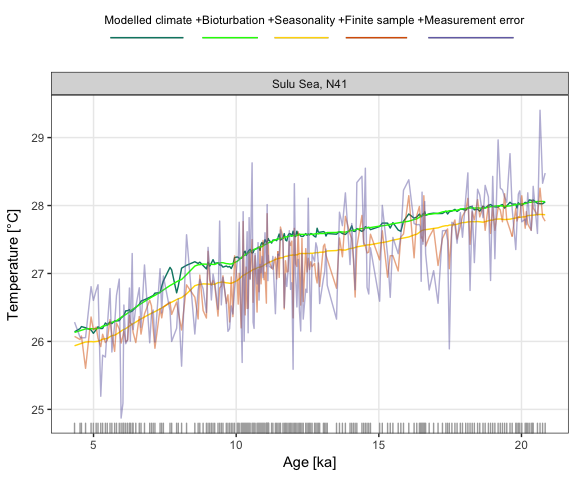
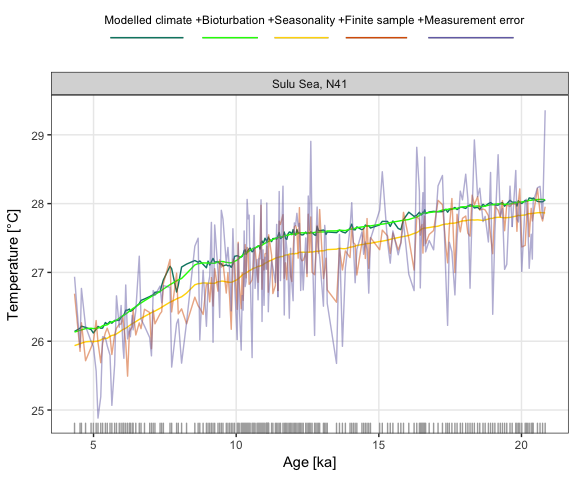
set seed on readme example

diff --git a/readme.md b/readme.md
@@ -111,6 +111,8 @@ kable(head(N41.proxy), format = "markdown")
 
 
 ```r
+set.seed(26052017)
+
 PFM <- ClimToProxyClim(clim.signal = N41.t21k.climate, 
                 timepoints = N41.proxy$Published.age,
                 seas.prod = N41.G.ruber.seasonality,
@@ -198,19 +200,19 @@ head(PFM$everything$proxy.bt.sb.sampYM.b.n)
 
 ```
 ##          [,1]     [,2]     [,3]     [,4]     [,5]     [,6]     [,7]
-## [1,] 299.4336 299.9550 299.9241 299.0985 299.7073 297.7386 298.2696
-## [2,] 299.2125 299.4902 299.4024 298.6799 299.1888 298.6986 299.3700
-## [3,] 299.2026 300.2415 298.1904 299.2498 299.2642 299.1582 298.7634
-## [4,] 299.2054 299.2442 298.6604 299.3978 298.8983 299.6220 298.6622
-## [5,] 299.9564 298.9938 299.9223 299.2495 299.2806 299.4958 298.5929
-## [6,] 299.7538 298.9364 299.2785 298.7418 298.1721 299.2782 299.6756
+## [1,] 300.0871 298.6103 299.1696 298.9876 299.8530 299.0882 299.4827
+## [2,] 299.0626 298.8560 298.6734 298.9378 300.3340 298.4662 298.1561
+## [3,] 299.9172 299.3151 299.1424 299.0514 298.6784 299.3591 299.1864
+## [4,] 299.3669 298.6737 299.7953 298.4092 298.8188 298.6501 299.3907
+## [5,] 299.1469 299.2656 299.0186 300.5715 299.0877 299.8759 299.4601
+## [6,] 299.0738 299.4633 298.3876 298.4741 299.8531 298.5163 299.2688
 ##          [,8]     [,9]    [,10]
-## [1,] 299.1807 299.6903 299.0152
-## [2,] 299.0400 299.8823 299.0877
-## [3,] 299.7397 299.4271 298.8827
-## [4,] 299.8755 298.7956 299.2888
-## [5,] 299.6019 299.3231 298.7721
-## [6,] 298.6206 299.7404 298.6687
+## [1,] 298.6455 299.5984 298.6452
+## [2,] 298.9418 299.2811 299.3139
+## [3,] 299.8347 298.7437 299.4163
+## [4,] 299.2372 299.2915 298.8032
+## [5,] 300.2362 299.7379 299.9058
+## [6,] 299.5232 299.5505 299.1878
 ```
 
 
